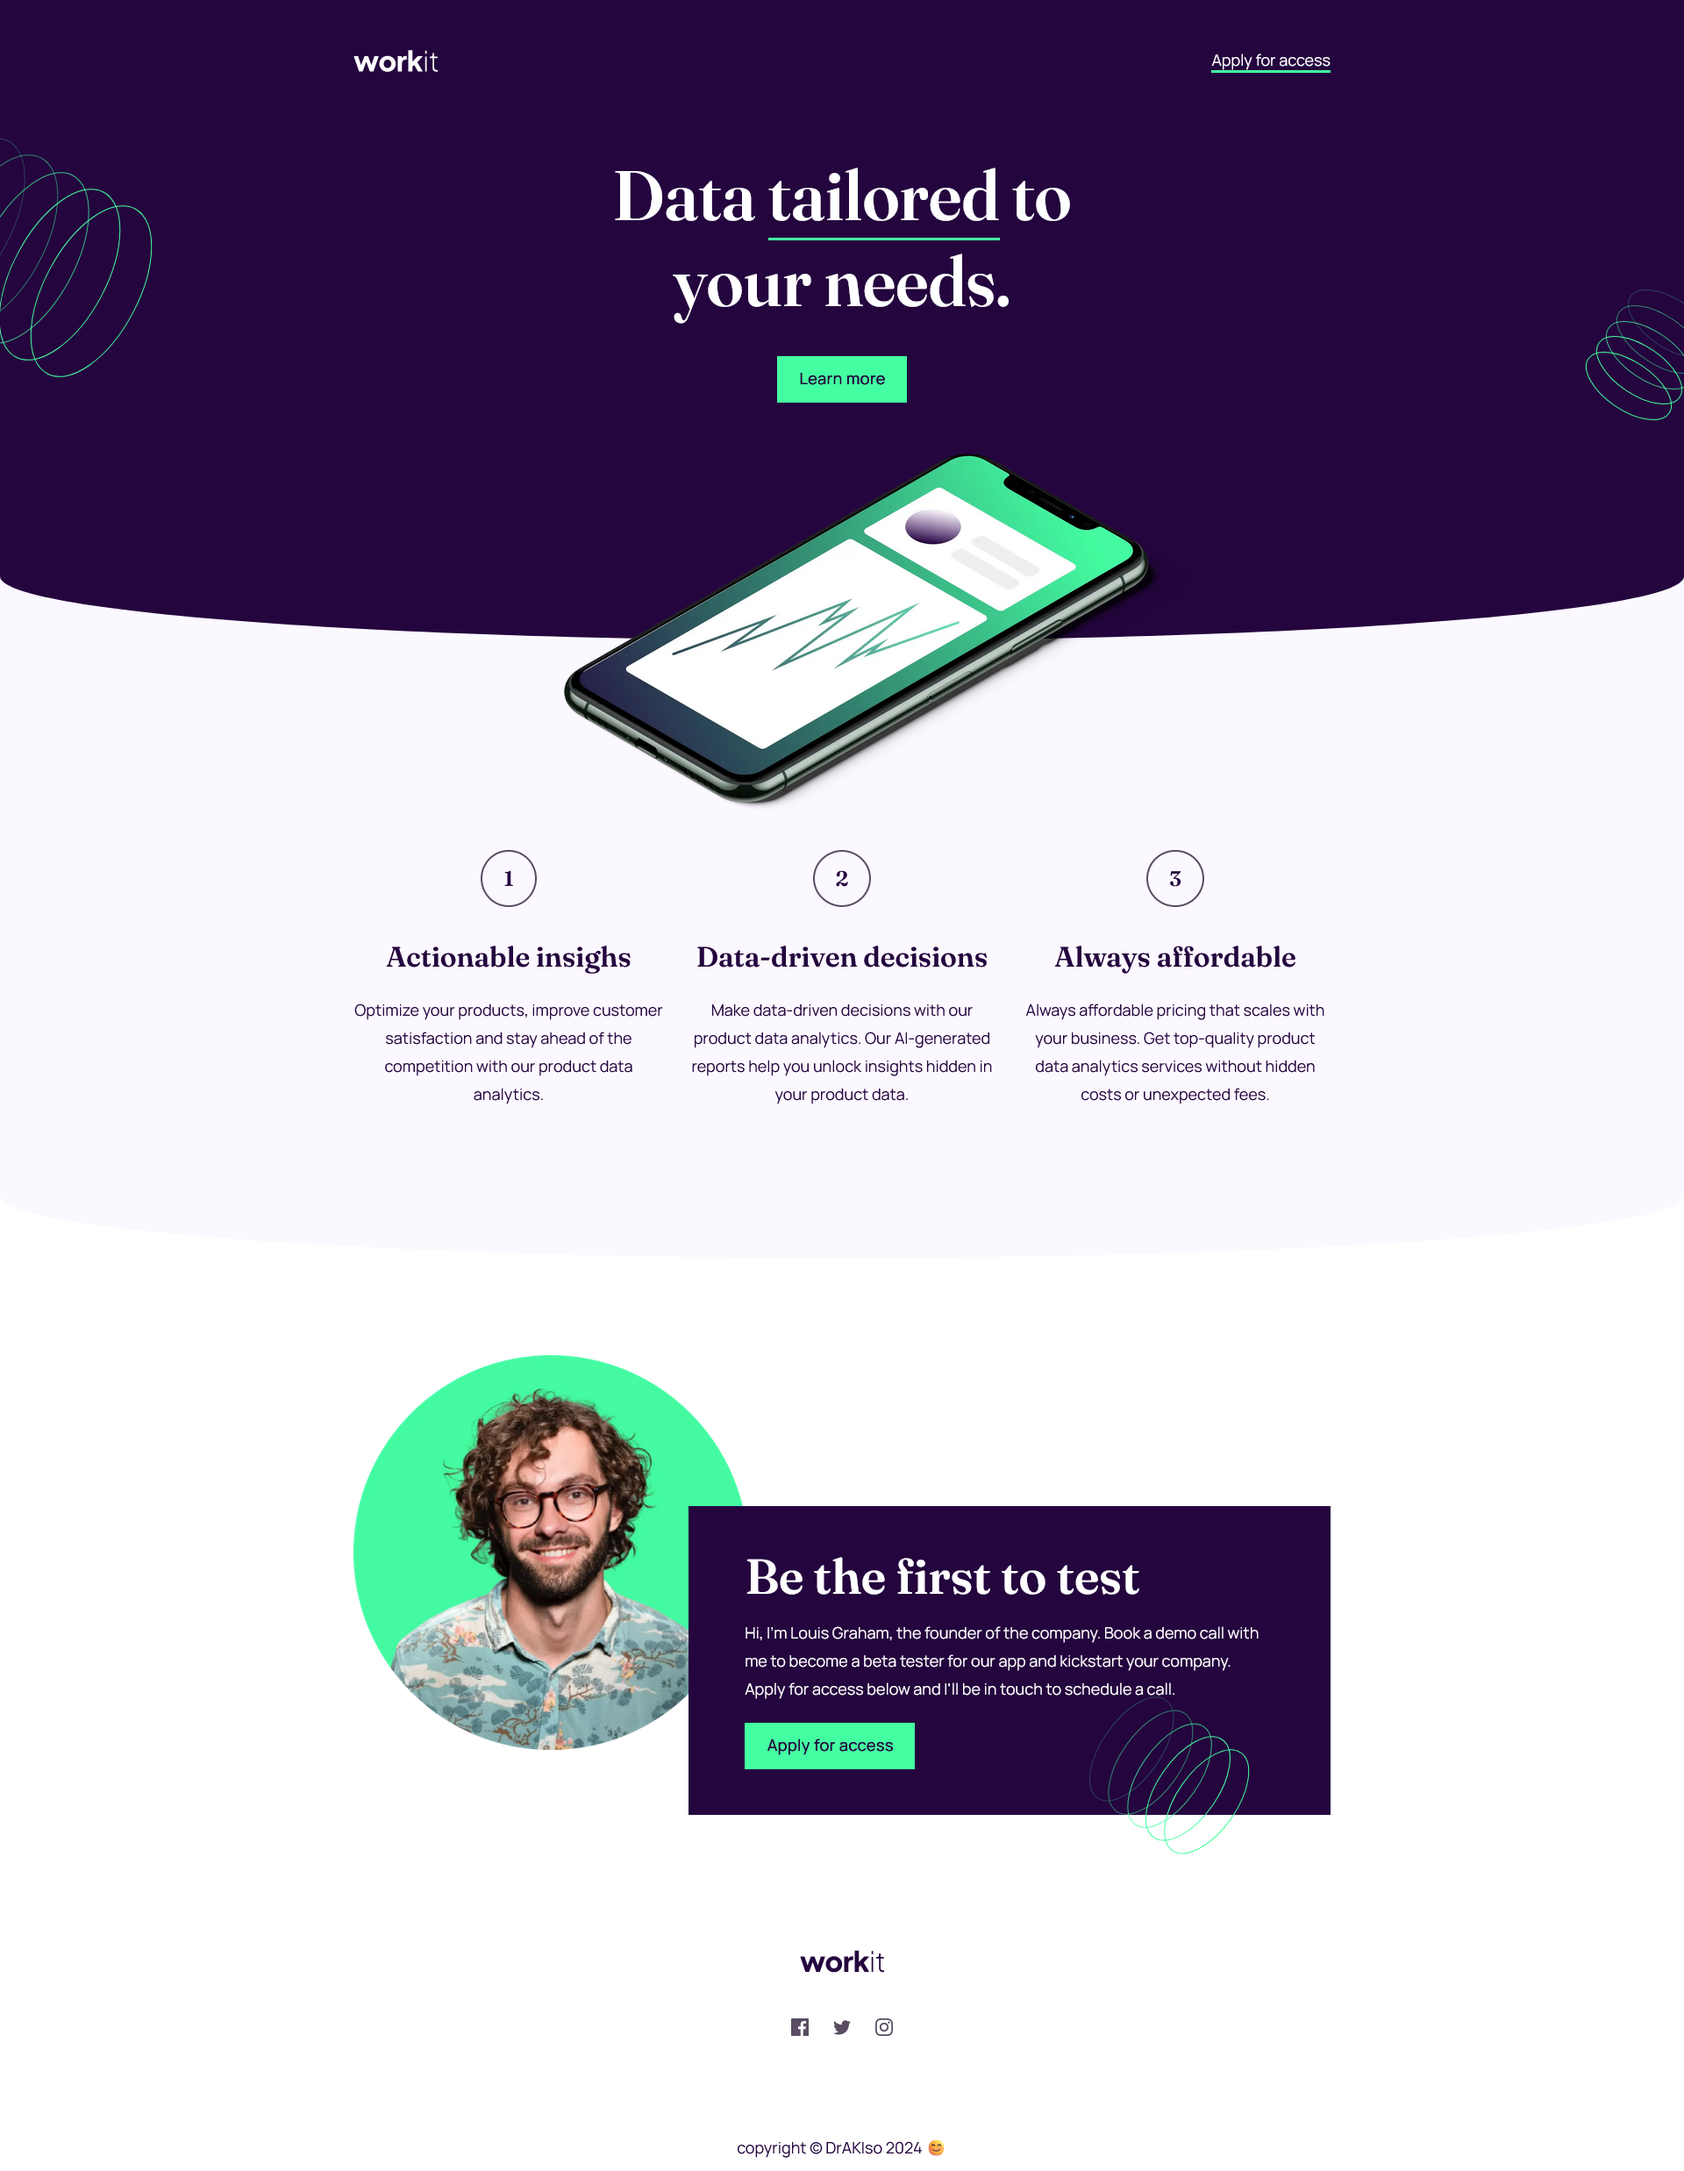
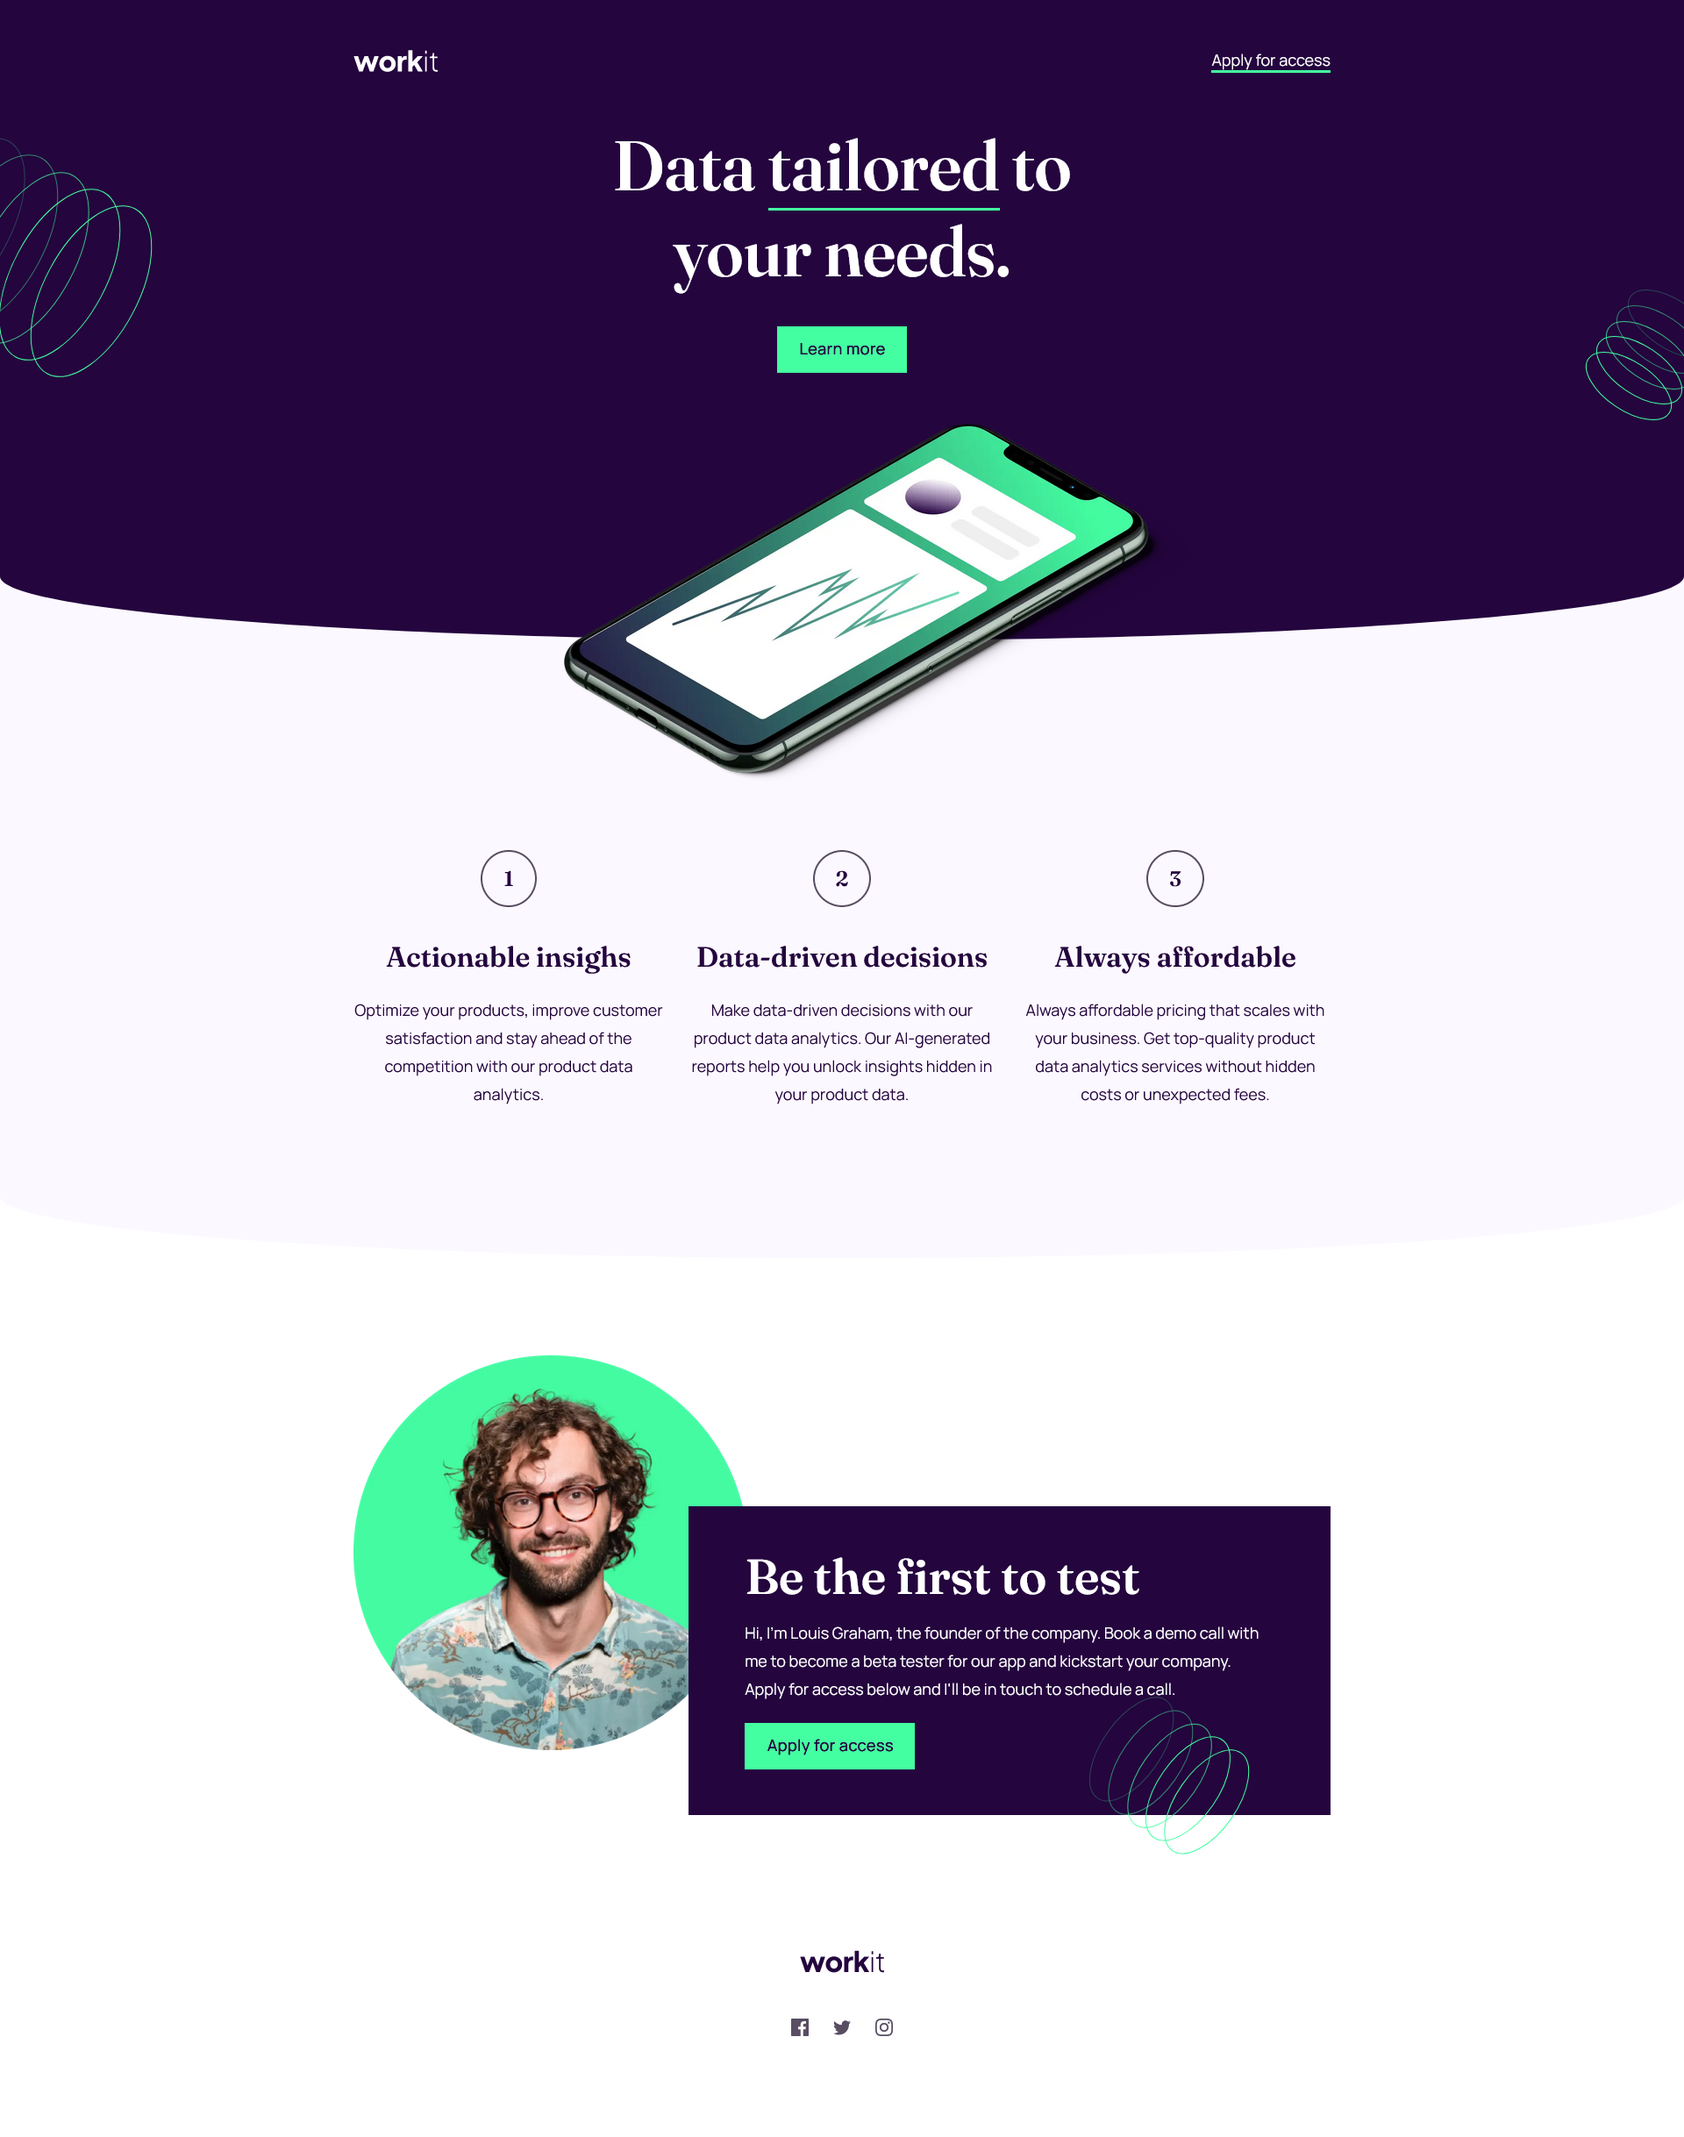
fix height

diff --git a/scss/main.scss b/scss/main.scss
@@ -46,7 +46,7 @@ header {
                 margin: auto;
                 display: flex;
                 justify-content: space-between;
-                padding: 56px 165px 90px;
+                padding: 56px 165px;
 
                 @media screen and (max-width: 1023.9px) {
                         padding: 32px 39px 56px;
@@ -374,7 +374,6 @@ header {
 footer {
         text-align: center;
         color: $secondary_text_color;
-        margin-bottom: 15px;
         .references{
                 width: 116px;
                 height: 102.224px;

diff --git a/css/style.css b/css/style.css
@@ -72,7 +72,7 @@ header nav {
   margin: auto;
   display: flex;
   justify-content: space-between;
-  padding: 56px 165px 90px;
+  padding: 56px 165px;
 }
 @media screen and (max-width: 1023.9px) {
   header nav {
@@ -430,7 +430,6 @@ header .hero {
 footer {
   text-align: center;
   color: #24053E;
-  margin-bottom: 15px;
 }
 footer .references {
   width: 116px;

diff --git a/index.html b/index.html
@@ -99,8 +99,6 @@
                         </a>
                     </div>
                 </div>
-
-                <div> copyright © DrAKIso 2024 😊 </div>
             </footer>
         </div>
     </body>
